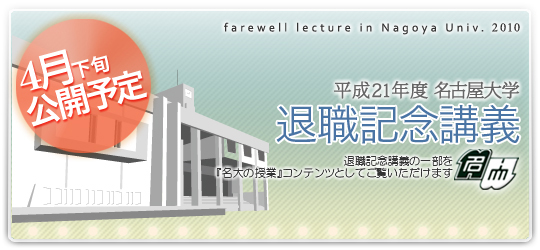
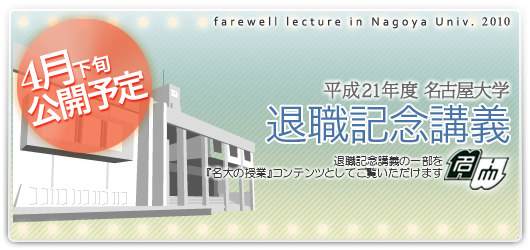
top 微調整
git-svn-id: file:///ocw/svn/design-rep/ocw-design/branches/2010@2285 0cb0e2da-76ef-49b7-9531-4241df5af7e9

diff --git a/css/2010.css b/css/2010.css
@@ -321,7 +321,7 @@ position: relative;
 }
 
 #feature{
-	width: 540px;
+	width: 530px;
 	float: left;
 	background-color: white;
 	overflow: hidden;
